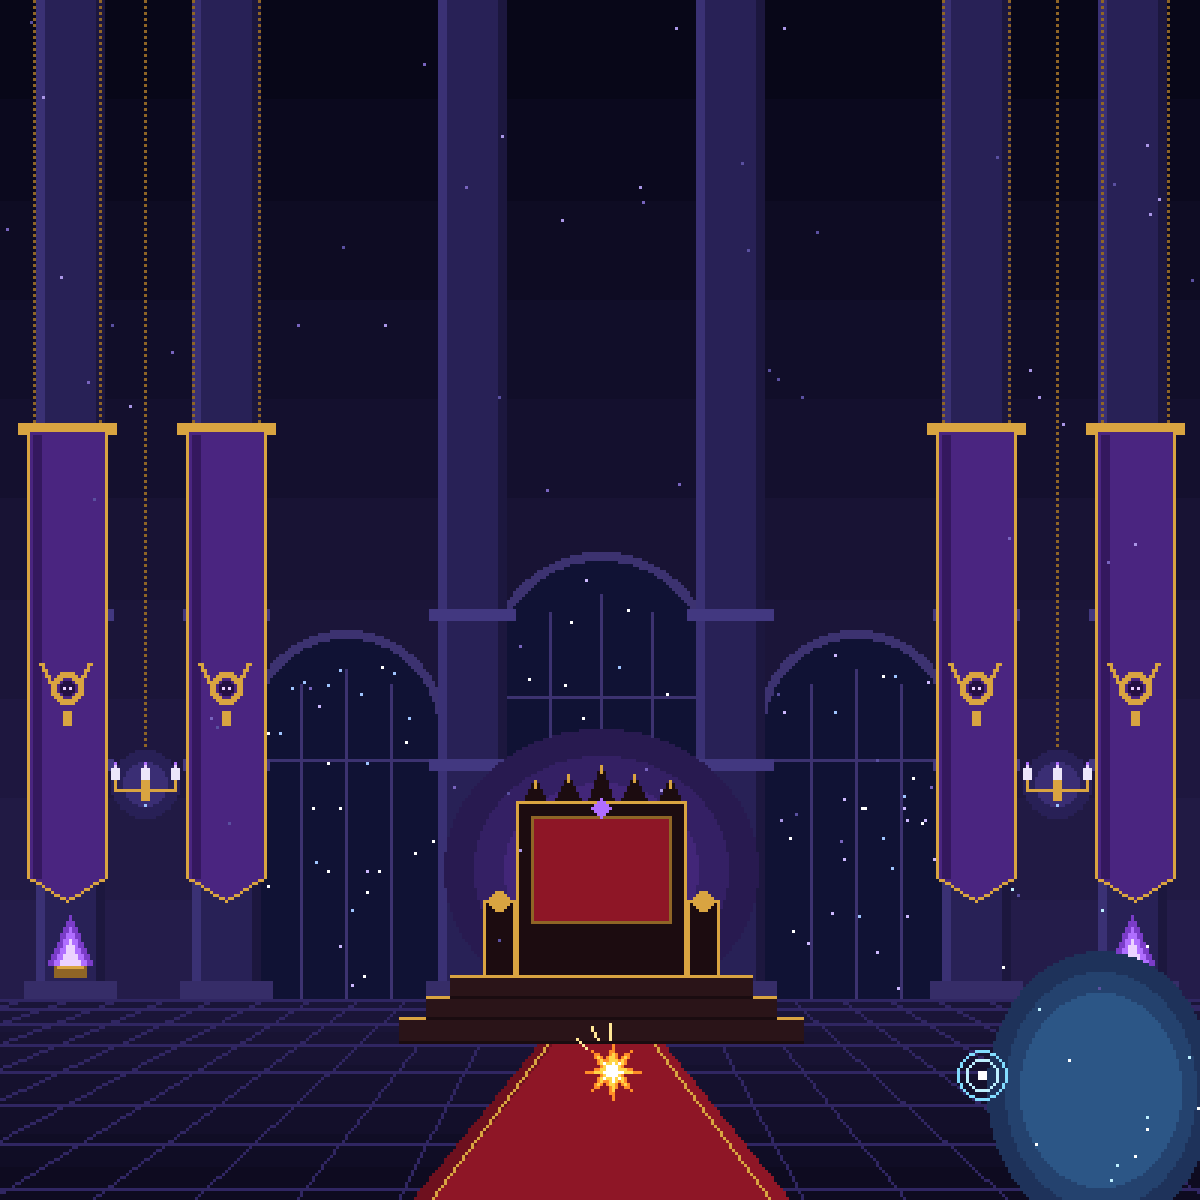
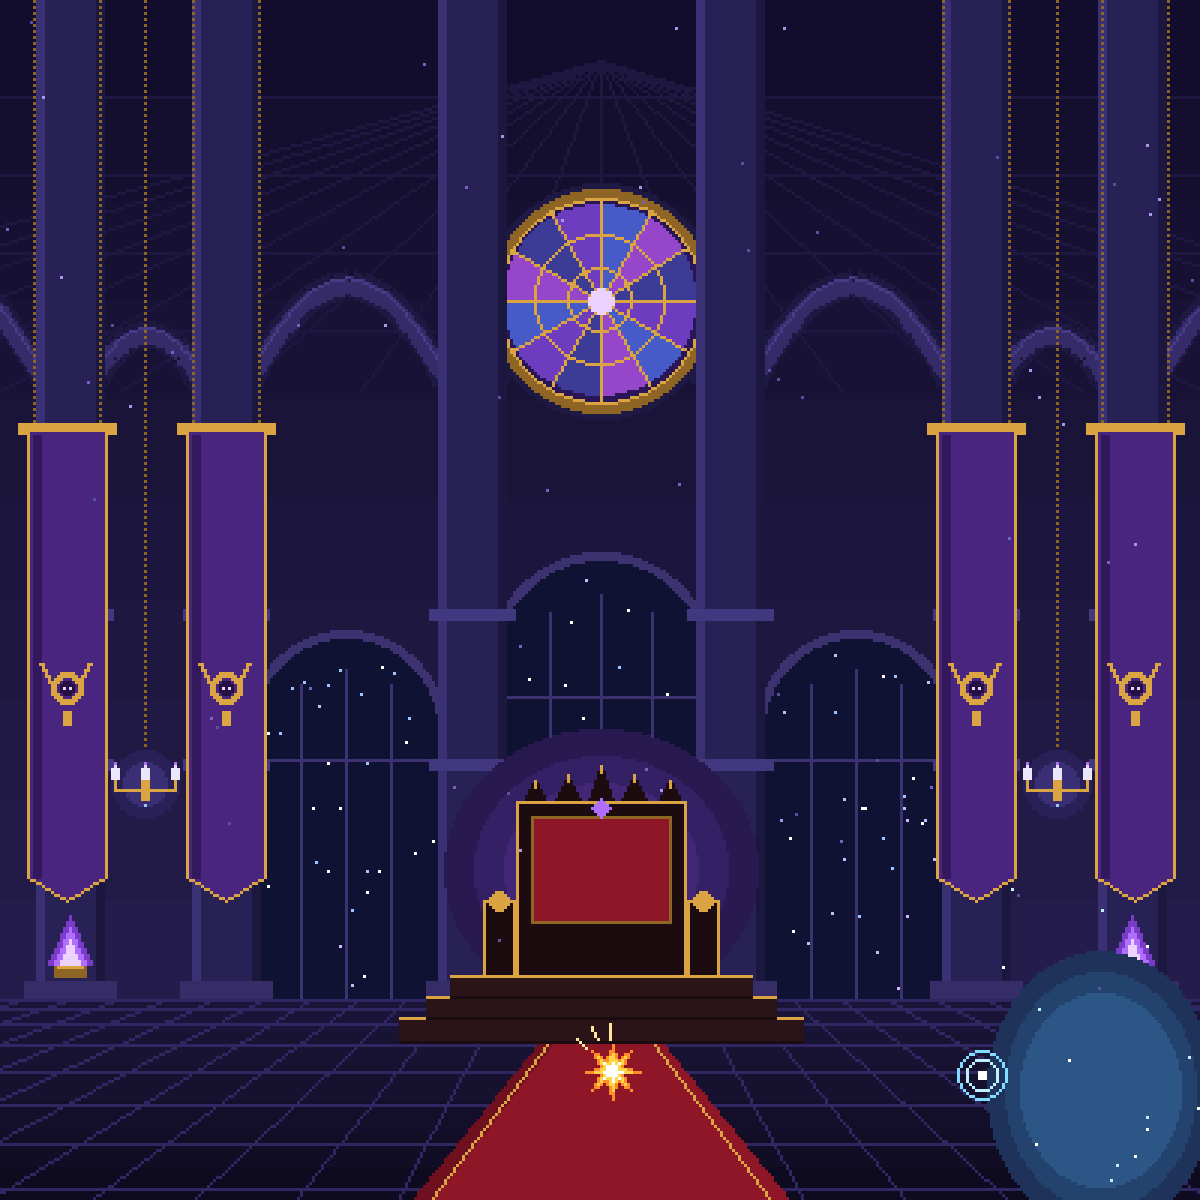
feat: PC 版ログイン画面の絵の幅を広げ、天井に尖頭アーチとバラ窓を追加
Claude-Session: https://claude.ai/code/session_011X4TxBNrZYBrzW1aZHE8yW

diff --git a/client/src/pages/Auth.tsx b/client/src/pages/Auth.tsx
@@ -16,7 +16,7 @@ type EmailAuthMode = 'signIn' | 'signUp'
 // 背景は tools/auth-hero/generate_throne_hall.py で生成した自作のドット絵（1200x1200）で、
 // 下側 1200x630 がサムネと同じ「ステージ」。キャラ・敵の素材は加工せず、ステージ基準の割合で重ねる。
 const heroBackgroundUrl = resolvePublicAssetPath('image/auth/throne-hall.png')
-const heroCeilingColor = '#080718'
+const heroCeilingColor = '#120d2c'
 
 // フォーム脇に出すマスコット。ヒーローで使っているキャラ（ch109・ch173・ch175）は重複を避けるため除外する。
 const formMascotPaths = [
@@ -258,7 +258,8 @@ function Auth() {
       sx={{
         minHeight: '100dvh',
         display: 'grid',
-        gridTemplateColumns: { xs: '1fr', md: '1.45fr 1fr' },
+        // PC はフォームを固定幅にして、残りをすべてゲームの絵に使う（絵が広いほどキャラも大きくなる）
+        gridTemplateColumns: { xs: '1fr', md: 'minmax(0, 1fr) 460px', lg: 'minmax(0, 1fr) 520px' },
         gridTemplateRows: { xs: 'auto 1fr', md: '1fr' },
         backgroundColor: heroCeilingColor,
       }}

diff --git a/tools/auth-hero/generate_throne_hall.py b/tools/auth-hero/generate_throne_hall.py
@@ -57,7 +57,7 @@ def draw_scene() -> Image.Image:
     floor_y = sy(430)
 
     # 空間全体のグラデーション（ドット絵らしく 10 段の帯で塗る）
-    top, bottom = (8, 7, 24), (36, 28, 74)
+    top, bottom = (18, 13, 44), (36, 28, 74)
     bands = 10
     for i in range(bands):
         y0 = round(floor_y * i / bands)
@@ -87,6 +87,58 @@ def draw_scene() -> Image.Image:
     arch_window(sx(345), 60, sy(70), floor_y - 1)
     arch_window(sx(855), 60, sy(70), floor_y - 1)
     arch_window(sx(600), 70, sy(-10), floor_y - 1)
+
+    # 天井（PC の縦長画面で見える部分）：柱をつなぐ尖頭アーチ、リブ、玉座の真上のバラ窓
+    pillar_xs = [sx(70), sx(225), sx(470), sx(730), sx(975), sx(1130)]
+    stone, stone_light, stone_dark = (52, 43, 104), (70, 59, 132), (30, 25, 66)
+    arch_base = sy(-150)
+
+    def pointed_arch(x0: int, x1: int, base: int, rise: int, color, width: int):
+        mid = (x0 + x1) / 2
+        pts = []
+        for k in range(0, 21):
+            t = k / 20
+            # 左右それぞれ円弧に近い曲線で、頂点がとがるようにする
+            x = x0 + (mid - x0) * t
+            y = base - rise * math.sin(t * math.pi / 2)
+            pts.append((x, y))
+        right = [(2 * mid - x, y) for x, y in reversed(pts)]
+        d.line(pts + right, fill=color, width=width)
+
+    # 奥の天井の格子（リブ）
+    rib = (30, 24, 64)
+    for x in range(-200, W + 200, 40):
+        d.line([W // 2, arch_base - 120, x, arch_base - 10], fill=rib)
+    for k in range(4):
+        y = arch_base - 30 - k * 26
+        d.line([0, y, W, y], fill=rib)
+
+    for x0, x1 in zip([-60] + pillar_xs, pillar_xs + [W + 60]):
+        rise = max(18, (x1 - x0) * 0.55)
+        pointed_arch(x0, x1, arch_base, rise, stone_dark, 9)
+        pointed_arch(x0, x1, arch_base, rise, stone, 6)
+        pointed_arch(x0, x1, arch_base - 2, rise, stone_light, 1)
+
+    # バラ窓（玉座の真上）
+    rx, ry, rr = W // 2, arch_base - 40, 34
+    d.ellipse([rx - rr - 5, ry - rr - 5, rx + rr + 5, ry + rr + 5], fill=stone_dark)
+    d.ellipse([rx - rr - 3, ry - rr - 3, rx + rr + 3, ry + rr + 3], fill=GOLD_DARK)
+    d.ellipse([rx - rr, ry - rr, rx + rr, ry + rr], fill=(40, 22, 86))
+    glass = [(110, 60, 190), (70, 90, 200), (150, 70, 200), (60, 60, 150)]
+    for k in range(12):
+        a0 = 2 * math.pi * k / 12
+        a1 = 2 * math.pi * (k + 1) / 12
+        poly = [(rx, ry)] + [
+            (rx + math.cos(a0 + (a1 - a0) * t / 4) * (rr - 2), ry + math.sin(a0 + (a1 - a0) * t / 4) * (rr - 2))
+            for t in range(5)
+        ]
+        d.polygon(poly, fill=glass[k % 4])
+    for k in range(12):
+        a = 2 * math.pi * k / 12
+        d.line([rx, ry, rx + math.cos(a) * rr, ry + math.sin(a) * rr], fill=GOLD, width=1)
+    for r in (rr, rr * 0.62, rr * 0.3):
+        d.ellipse([rx - r, ry - r, rx + r, ry + r], outline=GOLD)
+    d.ellipse([rx - 4, ry - 4, rx + 4, ry + 4], fill=(236, 210, 255))
 
     # 柱
     def pillar(cx: int, w: int):
